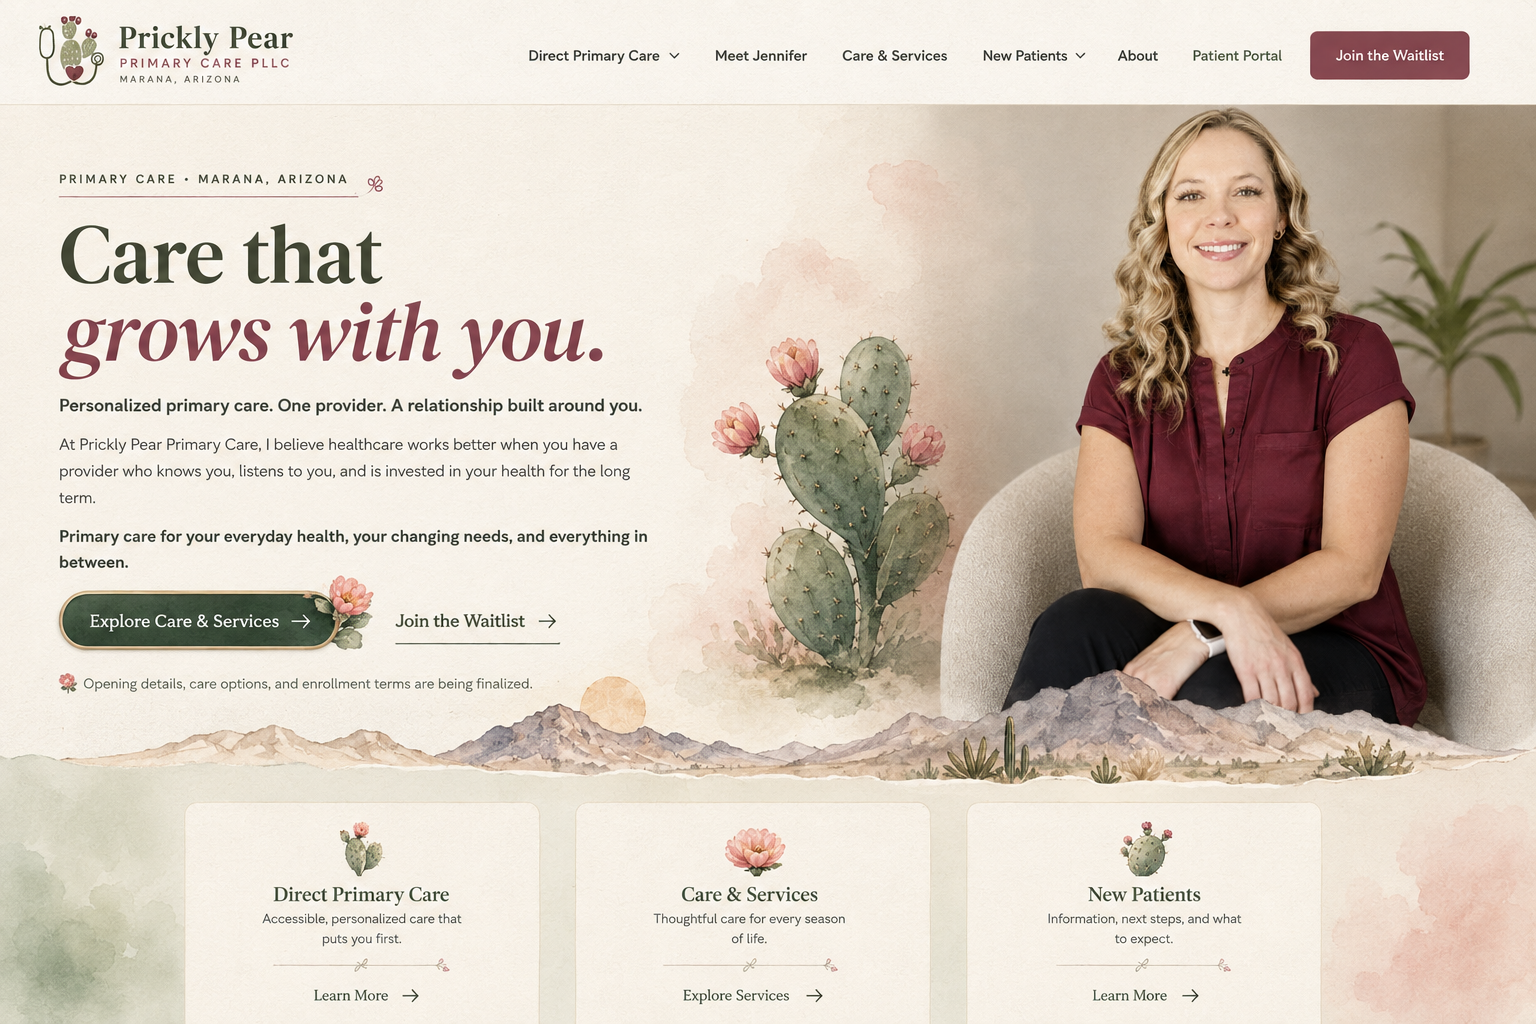
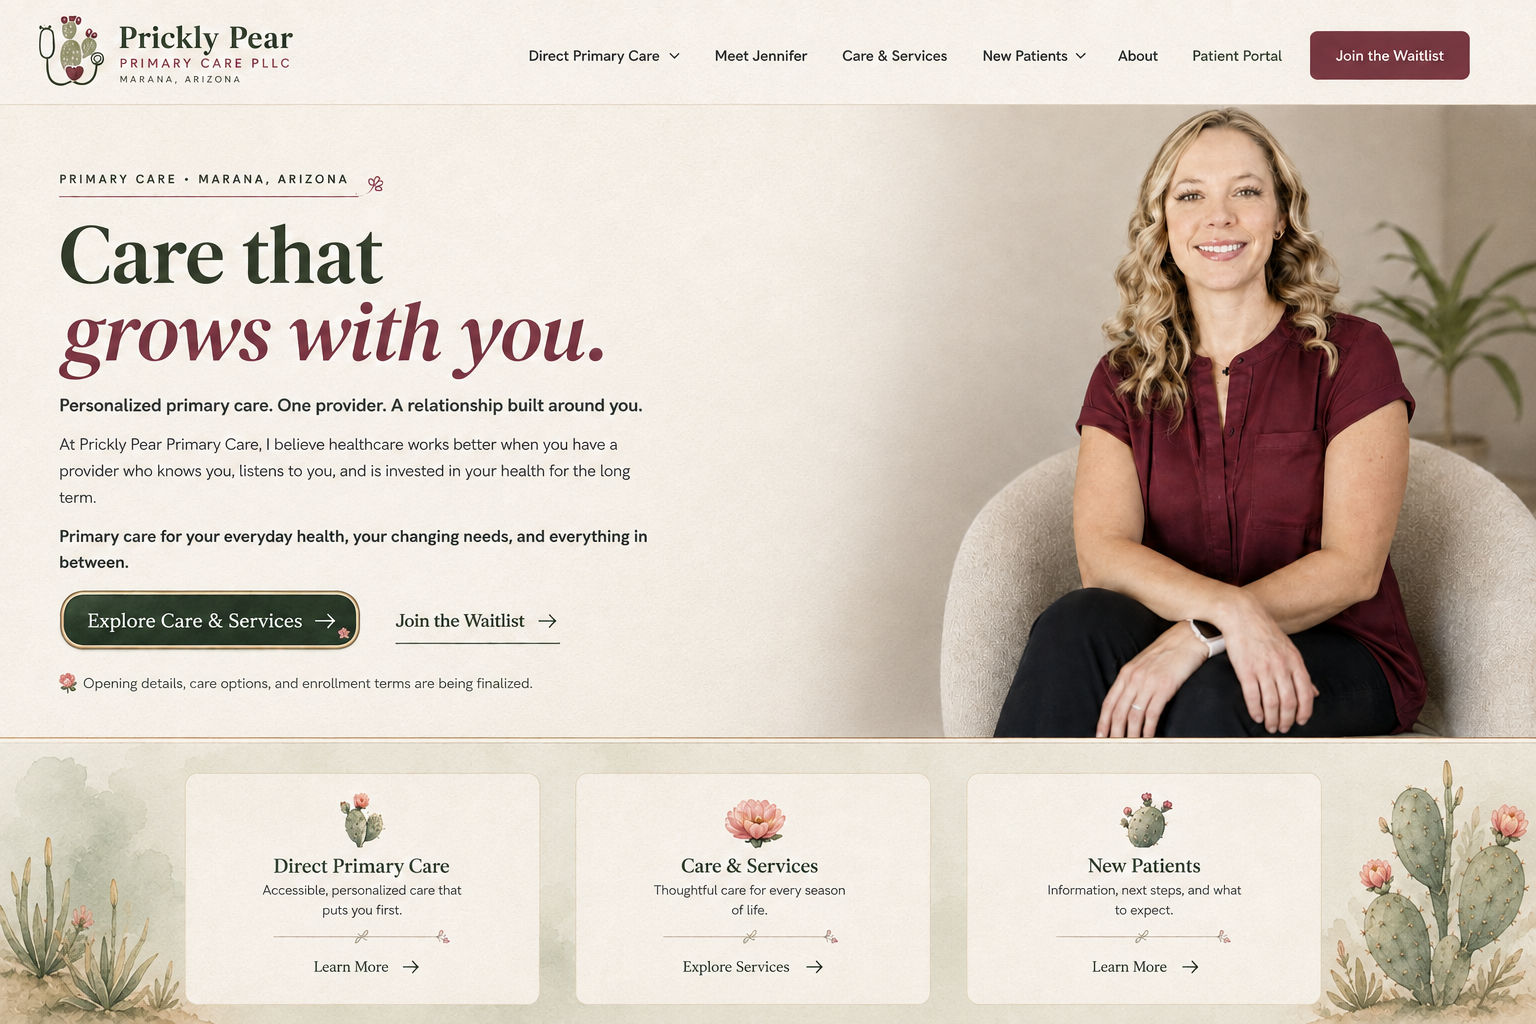
Refine crafted divider and button placement

diff --git a/src/crafted.css b/src/crafted.css
@@ -1,17 +1,17 @@
 :root{--watercolor-blush:#e7bdc8;--watercolor-sage:#aab39a;--watercolor-gold:#d3b368;--paper-grain:radial-gradient(circle at 18% 28%,rgba(89,98,71,.035) 0 1px,transparent 1.4px),radial-gradient(circle at 72% 64%,rgba(155,63,93,.025) 0 1px,transparent 1.5px);--organic-radius:30px 18px 34px 20px/22px 32px 19px 35px;--shadow-crafted:0 18px 46px rgba(53,48,37,.1);--ease-crafted:cubic-bezier(.22,1,.36,1)}
-.desert-bloom-button{position:relative;isolation:isolate;display:inline-flex;align-items:center;justify-content:center;gap:10px;min-height:50px;padding:13px 24px;border:1px solid var(--berry);border-radius:var(--organic-radius);background:var(--berry);color:#fff;font-weight:650;box-shadow:inset 0 0 0 1px rgba(255,255,255,.1);transition:transform .28s var(--ease-crafted),background-color .28s var(--ease-crafted),box-shadow .28s var(--ease-crafted)}
+.desert-bloom-button{position:relative;isolation:isolate;display:inline-flex;align-items:center;justify-content:center;gap:12px;min-height:52px;padding:13px 28px;border:1px solid #c8ae78;border-radius:18px 15px 20px 16px/16px 20px 15px 19px;background:var(--olive-dark);color:var(--cream);font-weight:650;box-shadow:inset 0 0 0 3px rgba(247,241,230,.12),0 7px 20px rgba(53,48,37,.08);transition:transform .28s var(--ease-crafted),background-color .28s var(--ease-crafted),box-shadow .28s var(--ease-crafted)}
 .desert-bloom-button:before{content:'';position:absolute;z-index:-1;inset:4px;border:1px solid rgba(255,255,255,.18);border-radius:inherit;pointer-events:none}.desert-bloom-button>svg:not(.desert-bloom-button__bloom){transition:transform .28s var(--ease-crafted)}
-.desert-bloom-button__bloom{position:absolute;right:-9px;top:-11px;width:21px;height:21px;padding:3px;border-radius:50%;background:var(--cream);color:var(--berry);stroke-width:1.6;transition:transform .3s var(--ease-crafted)}
-.desert-bloom-button:hover{transform:translateY(-2px);background:var(--berry-dark);box-shadow:var(--shadow-crafted)}.desert-bloom-button:hover>svg:not(.desert-bloom-button__bloom){transform:translateX(4px)}.desert-bloom-button:hover .desert-bloom-button__bloom{transform:rotate(8deg) scale(1.08)}
+.desert-bloom-button__bloom{position:absolute;right:-7px;top:-9px;width:20px;height:20px;padding:3px;border:1px solid rgba(155,63,93,.25);border-radius:50%;background:var(--cream);color:var(--berry);stroke-width:1.55;transition:transform .3s var(--ease-crafted)}
+.desert-bloom-button:hover{transform:translateY(-2px);background:#4b563d;box-shadow:var(--shadow-crafted)}.desert-bloom-button:hover>svg:not(.desert-bloom-button__bloom){transform:translateX(4px)}.desert-bloom-button:hover .desert-bloom-button__bloom{transform:rotate(8deg) scale(1.08)}
 .desert-bloom-button--cream{background:var(--cream);border-color:rgba(255,255,255,.78);color:var(--olive-dark)}.desert-bloom-button--cream:before{border-color:rgba(89,98,71,.16)}.desert-bloom-button--cream:hover{background:#fffaf0;color:var(--berry-dark)}.desert-bloom-button:focus-visible{outline:3px solid rgba(155,63,93,.34);outline-offset:4px}
 .watercolor-divider{position:relative;display:flex;align-items:center;justify-content:center;gap:13px;width:min(280px,62vw);height:32px;margin:0 auto;color:var(--berry)}.watercolor-divider span{height:2px;flex:1;background:currentColor;opacity:.42;filter:blur(.25px);clip-path:polygon(0 30%,12% 15%,29% 44%,47% 19%,68% 51%,84% 22%,100% 48%,100% 100%,0 100%)}.watercolor-divider svg{width:17px;height:17px;stroke-width:1.45}.watercolor-divider--cream{color:#f1ccd6}.watercolor-divider--olive{color:var(--olive)}
-.watercolor-divider--illustrated{z-index:4;width:100%;max-width:none;height:clamp(64px,8vw,112px);margin:0;overflow:hidden;pointer-events:none}.watercolor-divider--illustrated img{width:100%;height:100%;display:block;object-fit:cover;object-position:center 62%;filter:saturate(.72) contrast(.92);opacity:.88}.homepage-divider{margin:clamp(-64px,-5vw,-38px) auto -3px;background:linear-gradient(0deg,var(--olive-dark) 0 7%,transparent 7%)}
+.watercolor-divider--illustrated{z-index:4;width:100%;max-width:none;height:clamp(78px,8vw,122px);margin:0;overflow:hidden;pointer-events:none}.watercolor-divider--illustrated img{width:100%;height:100%;display:block;object-fit:fill;filter:saturate(.72) contrast(.92);opacity:.9}.homepage-divider{margin:clamp(-38px,-2.5vw,-24px) auto -3px;background:linear-gradient(0deg,var(--olive-dark) 0 7%,transparent 7%)}
 .paper-wash{position:absolute;z-index:0;width:clamp(230px,34vw,560px);height:clamp(180px,28vw,430px);border-radius:52% 48% 62% 38%/42% 58% 44% 56%;opacity:.28;filter:blur(2px);pointer-events:none}.paper-wash--sand{background:var(--sand)}.paper-wash--blush{background:var(--watercolor-blush)}.paper-wash--sage{background:var(--watercolor-sage)}.paper-wash--left{left:-15%;bottom:-30%;transform:rotate(-8deg)}.paper-wash--right{right:-15%;top:-28%;transform:rotate(7deg)}
 .desert-micro-icon{width:44px;height:44px;display:grid;place-items:center;margin-bottom:24px;border:1px solid rgba(255,255,255,.24);border-radius:48% 52% 45% 55%;background:rgba(255,255,255,.07);color:#f1ccd6;transform:rotate(-3deg)}.desert-micro-icon svg{width:20px;height:20px;transform:rotate(3deg);stroke-width:1.5}
 .organic-frame{position:relative;overflow:hidden;border-radius:40% 6px 42% 8px/12% 8px 36% 10%;box-shadow:var(--shadow-crafted)}.organic-frame:before{content:'';position:absolute;z-index:2;inset:13px;border:1px solid rgba(255,253,248,.7);border-radius:inherit;pointer-events:none}
 .mission-story,.editorial-intro,.local-story{background-image:linear-gradient(rgba(255,253,248,.93),rgba(255,253,248,.93)),var(--crafted-paper-texture);background-size:auto,480px}.mission-story{background-image:linear-gradient(rgba(251,245,234,.91),rgba(251,245,234,.91)),var(--crafted-paper-texture)}.crafted-olive{position:relative;background-color:var(--olive-dark);background-image:linear-gradient(rgba(63,73,52,.94),rgba(63,73,52,.94)),var(--crafted-paper-texture),var(--paper-grain);background-size:auto,480px,18px 18px}.crafted-principles article{position:relative;padding-top:4px}.crafted-principles article:after{content:'';position:absolute;left:0;top:68px;width:58px;height:1px;background:linear-gradient(90deg,#f1ccd6,transparent)}
-.watercolor-bloom{display:block;pointer-events:none}.cta--crafted{position:relative;isolation:isolate;overflow:hidden;background-image:linear-gradient(rgba(119,48,71,.94),rgba(155,63,93,.94)),var(--crafted-paper-texture)}.cta--crafted .cta-inner{position:relative;z-index:2}.cta--crafted .watercolor-divider{width:170px;margin:19px 0 -8px}.cta--crafted .paper-wash{opacity:.12}.cta__watercolor-bloom{position:absolute;z-index:1;right:clamp(120px,17vw,290px);bottom:-155px;width:250px;opacity:.16;filter:saturate(.65)}
+.watercolor-bloom{display:block;pointer-events:none}.cta--crafted{position:relative;isolation:isolate;overflow:hidden;background-image:linear-gradient(rgba(119,48,71,.94),rgba(155,63,93,.94)),var(--crafted-paper-texture)}.cta--crafted .cta-inner{position:relative;z-index:2}.cta--crafted .watercolor-divider{width:170px;margin:19px 0 -8px}.cta--crafted .paper-wash{opacity:.12}.cta__watercolor-bloom{position:absolute;z-index:1;right:clamp(180px,22vw,420px);bottom:-54px;width:210px;opacity:.14;filter:saturate(.65)}
 .local-story__photo.organic-frame{margin:0;min-height:480px;border-radius:40% 6px 42% 8px/12% 8px 36% 10%}.local-story__photo.organic-frame img{position:absolute;inset:0;width:100%;height:100%;object-fit:cover}
-@media(max-width:800px){.watercolor-divider--illustrated{height:78px}.homepage-divider{margin:-42px auto -3px}.crafted-principles{gap:34px}.crafted-principles article{padding:24px 0;border-bottom:1px solid rgba(255,255,255,.15)}.local-story__photo.organic-frame{min-height:440px}.cta--crafted .cta-inner{align-items:flex-start}.cta--crafted .desert-bloom-button{width:100%}.cta__watercolor-bloom{right:-45px;bottom:-120px;width:210px;opacity:.12}}
+@media(max-width:800px){.watercolor-divider--illustrated{height:88px}.watercolor-divider--illustrated img{object-fit:cover;object-position:center}.homepage-divider{margin:-24px auto -3px}.crafted-principles{gap:34px}.crafted-principles article{padding:24px 0;border-bottom:1px solid rgba(255,255,255,.15)}.local-story__photo.organic-frame{min-height:440px}.cta--crafted .cta-inner{align-items:flex-start}.cta--crafted .desert-bloom-button{width:100%}.cta__watercolor-bloom{right:-22px;bottom:-36px;width:160px;opacity:.1}}
 @media(max-width:480px){.desert-bloom-button{width:100%}.watercolor-divider{width:min(220px,60vw)}.paper-wash{opacity:.2}.local-story__photo.organic-frame{min-height:360px}.crafted-principles article:last-child{border-bottom:0}}
 @media(prefers-reduced-motion:reduce){.desert-bloom-button,.desert-bloom-button svg{transition:none}.desert-bloom-button:hover{transform:none}}

diff --git a/src/config/craftedAssets.js b/src/config/craftedAssets.js
@@ -13,7 +13,7 @@ export const craftedAssets = {
     src: publicAsset('watercolor-desert-divider.webp'),
     role: 'decorative',
     focalPoint: 'center 62%',
-    nativeSize: '3840x1396',
+    nativeSize: '3840x420',
   },
   paperTexture: {
     src: paperTexture,

diff --git a/docs/CRAFTED-ASSET-GUIDE.md b/docs/CRAFTED-ASSET-GUIDE.md
@@ -26,7 +26,7 @@ The design sheet is an art-direction reference, not a production sprite sheet. P
 | Registry key | Production role | Native dimensions |
 | --- | --- | --- |
 | `bloomCorner` | Mission and quiet CTA botanical accent | 1024 × 1536 |
-| `desertDivider` | Full-width section transition | 3840 × 1396 |
+| `desertDivider` | Full-width section transition | 3840 × 420 |
 | `paperTexture` | Seamless surface texture | 640 × 640 |
 
 ## Adding the next asset
